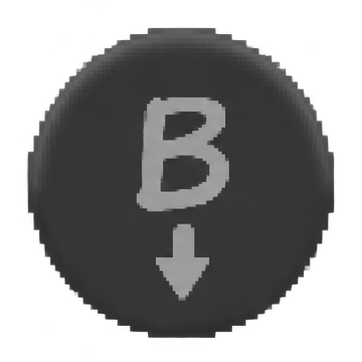
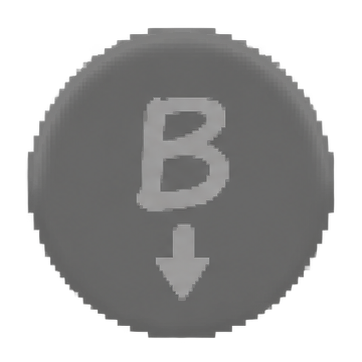
Isaac: the pad takes the player's opacity-baked art and final game geometry; the watcher gains the death page; the probe pins its deep roots
The pad's art is replaced with the player's opacity-adjusted set (the same
pictures, alpha only: the stick base at 35%, the dark discs at 75%, the
glyphs full, the paper keys redrawn at 724). The layers render at full
opacity -- set explicitly now -- so the baked alpha is never multiplied
again. The disc-centre anchors re-measured on the new files come out where
the old set's were (the minus disc at (0.5244, 0.5020) of its frame, 0.8008
of its span; the pause disc at (0.4986, 0.5069), 0.8453).

The game layout takes the player's final fitting: every frame at three
quarters of the first fitting (stick 0.16725, diamond keys 0.0728, the
bottom row 0.069), the diamond re-pitched to a true diamond (160 px both
axes: X 0.60902, B 0.86298 about the unchanged centre), the bottom row at
its final seats (ZL 0.565, L 0.650), and the - / + pair re-placed by disc
centre at the new scale (+ centre (0.938, 0.097) at frame 0.0503, - centre
(0.8838, 0.097) at frame 0.0530, the discs equal at ~116 px). The menus
are unchanged.

The watcher (hle_isaacpad.c) gains FD, the death flag the third probe
round found at Repentance data +0x85408 (zero everywhere until the death
instant, nonzero through the diary): F1 set and FD set now publish menu C
(3), the death page's layout that was already in the front end's table.
The pause page still publishes as the game; no field for it exists yet.

The probe's deep follow gains pinned roots (+0xcc0a8, the overlay / menu
[…]

diff --git a/dm/host/hle_isaacprobe.c b/dm/host/hle_isaacprobe.c
@@ -20,6 +20,12 @@
 // its target's first 512 bytes diffed the same way, tagged with the root slot's offset, capped at IP_DEEP_MAX
 // objects, with the same counter silencing per field. The tour this time only has to hold the pause page and die
 // once, steadily, inside one run.
+// Round 4 (that tour's analysis): the first-come table had filled with boot-time pointers (~2 s in) before any
+// of the objects that matter exist, so the menu tour's deep layer read almost nothing. Two roots are therefore
+// pinned -- followed always, outside the cap and the first-come scan (see the round-4 section below): +0xcc0a8,
+// the overlay / menu manager (built ~3.7 s in, in place across the menus and the whole run, swapped for the
+// diary's object when the death page opens), and +0xd2160, the session object behind F2. If a current-screen
+// enum exists anywhere, it lives in one of those two objects.
 #include "hle.h"
 #include <stdlib.h>
 #include <string.h>
@@ -226,6 +232,28 @@ static uint8_t *g_deep_seen;        // one bit per slot of the module's data seg
 static module_t *g_deep_mod;        // the module (and base) the table keys off; a change restarts the table
 static uint8_t *g_deep_lo;
 
+// ---- Round 4: the pinned roots (see the file's head) ----
+static const size_t k_ip_deep_pins[] = { 0xcc0a8, 0xd2160 };   // root slot offsets in Repentance's data segment
+typedef struct {
+    size_t slot;            // the root slot's offset (the log's root=)
+    uint64_t target;        // the object it points at now; 0 while it points at nothing followable
+    int heap;               // as ip_deep_t's heap
+    uint8_t snap[IP_DEEP_OBJ];
+    uint32_t streak[IP_DEEP_OBJ / 8];   // per 8-byte field, as ip_deep_t's streak
+} ip_pin_t;
+static ip_pin_t g_pins[sizeof k_ip_deep_pins / sizeof k_ip_deep_pins[0]];
+
+static int ip_is_pin(size_t slot) {
+    for (size_t i = 0; i < sizeof k_ip_deep_pins / sizeof k_ip_deep_pins[0]; i++) if (k_ip_deep_pins[i] == slot) return 1;
+    return 0;
+}
+
+static int ip_pins_active(void) {
+    int n = 0;
+    for (size_t i = 0; i < sizeof g_pins / sizeof g_pins[0]; i++) if (g_pins[i].target) n++;
+    return n;
+}
+
 static ip_range_t *ip_deep_range(void) {
     for (int i = 0; i < g_nranges; i++) if (!strcmp(g_ranges[i].m->build_id, k_isaacprobe_deep[0])) return &g_ranges[i];
     return NULL;
@@ -236,6 +264,7 @@ static void ip_deep_reset(void) {
     free(g_deep); g_deep = NULL; g_ndeep = 0; g_deep_full_noted = 0;
     free(g_deep_seen); g_deep_seen = NULL;
     g_deep_mod = NULL; g_deep_lo = NULL;
+    for (size_t i = 0; i < sizeof g_pins / sizeof g_pins[0]; i++) { memset(&g_pins[i], 0, sizeof g_pins[i]); g_pins[i].slot = k_ip_deep_pins[i]; }
 }
 
 // Read a followed deep object's bytes: 0 on success (the heap read refuses a vanished object).
@@ -258,6 +287,7 @@ static void ip_deep_scan_new(ip_range_t *r) {
     const uint64_t *cur = (const uint64_t *)(const void *)r->lo;
     for (size_t s = 0; s < r->nslots; s++) {
         if ((g_deep_seen[s / 8] >> (s % 8)) & 1) continue;
+        if (ip_is_pin(s * 8)) continue;   // the pinned roots are followed separately, always (ip_deep_pin_poll)
         int heap; if (!ip_classify(cur[s], &heap, IP_DEEP_OBJ)) continue;
         if (g_ndeep >= IP_DEEP_MAX) {
             if (!g_deep_full_noted) { g_deep_full_noted = 1; LOG("[isaacprobe] deep pointer table full (%d); no further pointers are followed", IP_DEEP_MAX); }
@@ -270,6 +300,29 @@ static void ip_deep_scan_new(ip_range_t *r) {
         g_deep_seen[s / 8] |= (uint8_t)(1u << (s % 8));
         g_ndeep++;
     }
+}
+
+// Diff one followed object's fresh bytes against its snapshot, logging each changed field (a field
+// that changes on every poll for 10 s is named a counter once, then left quiet). Returns the changes.
+static int ip_deep_diff(const char *modname, size_t slot, uint8_t *snap, uint32_t *streak, const uint8_t *buf, uint64_t t) {
+    int changed = 0;
+    for (size_t o = 0; o < IP_DEEP_OBJ; o += 8) {
+        uint64_t nv, ov;
+        memcpy(&nv, buf + o, 8); memcpy(&ov, snap + o, 8);
+        if (nv == ov) { if (streak[o / 8] != ~0u) streak[o / 8] = 0; continue; }
+        memcpy(snap + o, &nv, 8);
+        if (streak[o / 8] == ~0u) continue;   // a named counter stays quiet (and out of the heartbeat's count)
+        changed++;
+        if (++streak[o / 8] >= IP_HOT_POLLS) {
+            streak[o / 8] = ~0u;
+            LOG("[isaacprobe] t=%llu counter deep mod=%s root=0x%zx objoff=0x%zx (changed on every poll for 10 s; its changes are no longer logged)",
+                (unsigned long long)t, modname, slot, o);
+            continue;
+        }
+        LOG("[isaacprobe] t=%llu deep mod=%s root=0x%zx objoff=0x%zx old=0x%016llx new=0x%016llx",
+            (unsigned long long)t, modname, slot, o, (unsigned long long)ov, (unsigned long long)nv);
+    }
+    return changed;
 }
 
 // One poll over the followed deep objects: re-validate each, then log changes (counters named once, then quiet).
@@ -292,22 +345,43 @@ static int ip_deep_poll(ip_range_t *r, uint64_t t) {
             continue;
         }
         if (ip_deep_read(p, buf)) { ip_deep_drop(i--); continue; }   // died between the classify and the read
-        for (size_t o = 0; o < IP_DEEP_OBJ; o += 8) {
-            uint64_t nv, ov;
-            memcpy(&nv, buf + o, 8); memcpy(&ov, p->snap + o, 8);
-            if (nv == ov) { if (p->streak[o / 8] != ~0u) p->streak[o / 8] = 0; continue; }
-            memcpy(p->snap + o, &nv, 8);
-            if (p->streak[o / 8] == ~0u) continue;   // a named counter stays quiet (and out of the heartbeat's count)
-            changed++;
-            if (++p->streak[o / 8] >= IP_HOT_POLLS) {
-                p->streak[o / 8] = ~0u;
-                LOG("[isaacprobe] t=%llu counter deep mod=%s root=0x%zx objoff=0x%zx (changed on every poll for 10 s; its changes are no longer logged)",
-                    (unsigned long long)t, r->m->name, p->slot, o);
-                continue;
-            }
-            LOG("[isaacprobe] t=%llu deep mod=%s root=0x%zx objoff=0x%zx old=0x%016llx new=0x%016llx",
-                (unsigned long long)t, r->m->name, p->slot, o, (unsigned long long)ov, (unsigned long long)nv);
+        changed += ip_deep_diff(r->m->name, p->slot, p->snap, p->streak, buf, t);
+    }
+    return changed;
+}
+
+// Read a pinned root's object: 0 on success (the heap read refuses a vanished object).
+static int ip_pin_read(const ip_pin_t *p, uint8_t *out) {
+    if (p->heap) return dm_guest_heap_read(p->target, out, IP_DEEP_OBJ);
+    memcpy(out, (const void *)(uintptr_t)p->target, IP_DEEP_OBJ);   // a module's data: its mapping is process-lifetime
+    return 0;
+}
+
+// One poll over the pinned roots: re-resolve each root's target -- a swap adopts the new object,
+// restarts its diff and is logged with the usual deep tag; a root pointing at nothing followable
+// idles (never dropped) until it points again -- then diff the current objects.
+static int ip_deep_pin_poll(ip_range_t *r, uint64_t t) {
+    int changed = 0;
+    const uint64_t *cur = (const uint64_t *)(const void *)r->lo;
+    uint8_t buf[IP_DEEP_OBJ];
+    for (size_t i = 0; i < sizeof g_pins / sizeof g_pins[0]; i++) {
+        ip_pin_t *p = &g_pins[i];
+        if (p->slot + 8 > r->len) continue;
+        uint64_t v = cur[p->slot / 8];
+        int heap;
+        if (v != p->target) {
+            if (ip_classify(v, &heap, IP_DEEP_OBJ)) {
+                p->target = v; p->heap = heap;
+                if (ip_pin_read(p, buf)) { p->target = 0; continue; }   // died between the classify and the read: idle, a later poll retries
+                memcpy(p->snap, buf, IP_DEEP_OBJ); memset(p->streak, 0, sizeof p->streak);
+                LOG("[isaacprobe] t=%llu deep mod=%s root=0x%zx now points at 0x%016llx",
+                    (unsigned long long)t, r->m->name, p->slot, (unsigned long long)v);
+            } else p->target = 0;   // nothing followable there now: 0, or a pointer too near a range's end to hold an object
+            continue;
         }
+        if (!p->target) continue;
+        if (ip_pin_read(p, buf)) { p->target = 0; continue; }   // the object died under us: idle until the root points again
+        changed += ip_deep_diff(r->m->name, p->slot, p->snap, p->streak, buf, t);
     }
     return changed;
 }
@@ -332,13 +406,15 @@ static void *isaacprobe_main(void *arg) {
                 if (deep->nslots) g_deep_seen = calloc((deep->nslots + 7) / 8, 1);
                 LOG("[isaacprobe] deep-following the pointers in mod=%s's data segment (build %s): %d-byte objects, at most %d",
                     deep->m->name, deep->m->build_id, IP_DEEP_OBJ, IP_DEEP_MAX);
+                LOG("[isaacprobe] deep-pinned roots +0x%zx and +0x%zx: followed always, outside the table",
+                    k_ip_deep_pins[0], k_ip_deep_pins[1]);
             }
-            ip_deep_scan_new(deep); changed += ip_deep_poll(deep, t);
+            ip_deep_scan_new(deep); changed += ip_deep_poll(deep, t); changed += ip_deep_pin_poll(deep, t);
         }
         changed10 += changed;
         if (++poll % 40 == 0) {
             LOG("[isaacprobe] heartbeat t=%llu changed=%d slots in the last 10 s, %d pointers followed, %d ranges tracked, %d deep pointers followed",
-                (unsigned long long)t, changed10, g_nptrs, g_nranges, g_ndeep);
+                (unsigned long long)t, changed10, g_nptrs, g_nranges, g_ndeep + ip_pins_active());
             changed10 = 0;
         }
         struct timespec ts = { 0, 250000000 }; nanosleep(&ts, NULL);

diff --git a/dm/ios/Sources/DmGamepad.m b/dm/ios/Sources/DmGamepad.m
@@ -449,23 +449,25 @@ static UIView *clearDisc(UIView *parent, CGFloat tint) {
 // ---- Isaac layout (DM_PAD_ISAAC=1 in an env file) ----
 // The Binding of Isaac's own touch pad: image keys only (the game's official iOS art, redrawn by the
 // player; dm/padisaac, staged into the bundle by build_ipa.sh), no drawn fallback and no layout editor.
+// The art carries its own opacity (the player's set bakes it in -- the stick base at 35%, the dark
+// discs at 75%, the glyphs full), so the layers render at full opacity and nothing multiplies it again.
 // The host watches the game's page fields and publishes the layout (dm_isaac_pad_mode, hle_isaacpad.c):
-// 0 menu A (the title and save pages), 1 menu B (the main menu and the character page), 2 the game.
-// The menus get a D-pad cross at the left and the paper confirm / back keys at the right (menu B adds an
-// X key at the top right, for the daily run and the seed entry); the game gets a fixed stick at the left,
+// 0 menu A (the title and save pages), 1 menu B (the main menu and the character page), 2 the game,
+// 3 menu C (the death page: the diary). The pause page still publishes as the game -- no probe has
+// found a field for it. The menus get a D-pad cross at the left and the paper confirm / back keys at
+// the right (menu B adds an X key at the top right, for the daily run and the seed entry; menu C gets
+// the letter A / B discs instead of the paper keys, and no X); the game gets a fixed stick at the left,
 // the shooting diamond at the right, a two-key row at the bottom centre (ZL's tool inside, L's bomb
 // outside) and the - / + pair at the top right. There are no R / ZR keys (the game binds nothing the
-// player asked for to them here). A fourth layout is already drawn in the table -- menu C, the death
-// page (the diary: the cross and the letter A / B discs) -- but stays unreachable: no watcher state
-// maps to it yet, because the diary page reads exactly like the game in every field the probes have
-// covered (see isaacTick).
+// player asked for to them here). The game's keys sit at the player's final scale: three quarters of
+// the first fitting's frames, the diamond re-pitched to a true diamond (equal pixel pitch both axes).
 // Centres are fractions of the whole screen (x of its width, y of its height) and sizes the art frame's
 // width as a fraction of the screen's width (the frames are square), the layout the player measured.
 // The top-right pair is the one exception: those two arts carry different transparent margins, so each
 // is placed by its visible disc's centre -- (ax, ay) is the point of the frame, as a fraction, that
 // lands on the seat (x, y); every other key's anchor is its frame centre (0.5, 0.5).
 static BOOL padIsaac(void) { const char *e = getenv("DM_PAD_ISAAC"); return e && atoi(e); }
-enum { IA_MENU_A, IA_MENU_B, IA_GAME, IA_MENU_C };   // the layouts, dm_isaac_pad_mode's values (IA_MENU_C unreachable for now)
+enum { IA_MENU_A, IA_MENU_B, IA_GAME, IA_MENU_C };   // the layouts, dm_isaac_pad_mode's values
 #define IA_IN_A (1 << IA_MENU_A)
 #define IA_IN_B (1 << IA_MENU_B)
 #define IA_IN_G (1 << IA_GAME)
@@ -474,20 +476,20 @@ static const struct { const char *art; int bit; int modes; CGFloat x, y, w, ax, 
     {"select",   B_A,     IA_IN_A | IA_IN_B, 0.859, 0.639, 0.1375, 0.5,    0.5},     // the paper confirm key (the menus' A)
     {"back",     B_B,     IA_IN_A | IA_IN_B, 0.859, 0.861, 0.122,  0.5,    0.5},     // the paper back key (the menus' B)
     {"letter_x", B_X,     IA_IN_B,           0.938, 0.097, 0.097,  0.5,    0.5},     // menu B's sub-option key, at the top right
-    {"letter_a", B_A,     IA_IN_C,           0.859, 0.639, 0.110,  0.5,    0.5},     // the death page's restart key (menu C, unreachable yet)
-    {"letter_b", B_B,     IA_IN_C,           0.859, 0.861, 0.110,  0.5,    0.5},     // the death page's quit key (menu C, unreachable yet)
-    {"attack_x", B_X,     IA_IN_G,           0.867, 0.597, 0.097,  0.5,    0.5},     // the diamond: shoot up
-    {"attack_y", B_Y,     IA_IN_G,           0.789, 0.736, 0.097,  0.5,    0.5},     // shoot left
-    {"attack_a", B_A,     IA_IN_G,           0.945, 0.736, 0.097,  0.5,    0.5},     // shoot right
-    {"attack_b", B_B,     IA_IN_G,           0.867, 0.875, 0.097,  0.5,    0.5},     // shoot down
-    {"item_zl",  B_ZL,    IA_IN_G,           0.500, 0.885, 0.092,  0.5,    0.5},     // the bottom row: the active item (ZL) inside
-    {"bomb_l",   B_L,     IA_IN_G,           0.615, 0.885, 0.092,  0.5,    0.5},     // the bottom row: bombs (L) outside -- the pair swapped seats at the player's word, the old - seat left of them stays empty
-    {"minus",    B_MINUS, IA_IN_G,           0.869, 0.097, 0.0705, 0.5244, 0.5020},  // - (time and score): placed by its disc's centre (the disc sits right of its frame's centre), sized so its disc matches the + disc's
-    {"pause",    B_PLUS,  IA_IN_G,           0.938, 0.097, 0.067,  0.4986, 0.5069},  // + (pause), the pause art on the Plus key: placed by its disc's centre, like its pair
+    {"letter_a", B_A,     IA_IN_C,           0.859, 0.639, 0.110,  0.5,    0.5},     // the death page's restart key (menu C)
+    {"letter_b", B_B,     IA_IN_C,           0.859, 0.861, 0.110,  0.5,    0.5},     // the death page's quit key (menu C)
+    {"attack_x", B_X,     IA_IN_G,           0.867, 0.60902, 0.0728, 0.5,  0.5},     // the diamond: shoot up (a true diamond: the vertical pitch is the horizontal's 160 px, not the design sheet's height fraction)
+    {"attack_y", B_Y,     IA_IN_G,           0.8085, 0.736, 0.0728, 0.5,   0.5},     // shoot left
+    {"attack_a", B_A,     IA_IN_G,           0.9255, 0.736, 0.0728, 0.5,   0.5},     // shoot right
+    {"attack_b", B_B,     IA_IN_G,           0.867, 0.86298, 0.0728, 0.5,  0.5},     // shoot down
+    {"item_zl",  B_ZL,    IA_IN_G,           0.565, 0.885, 0.069,  0.5,    0.5},     // the bottom row: the active item (ZL) inside
+    {"bomb_l",   B_L,     IA_IN_G,           0.650, 0.885, 0.069,  0.5,    0.5},     // the bottom row: bombs (L) outside -- the pair swapped seats at the player's word, then moved right and closer together at his final fitting; the old - seat left of them stays empty
+    {"minus",    B_MINUS, IA_IN_G,           0.8838, 0.097, 0.0530, 0.5244, 0.5020},  // - (time and score): placed by its disc's centre (the disc sits right of its frame's centre), sized so its disc matches the + disc's
+    {"pause",    B_PLUS,  IA_IN_G,           0.938, 0.097, 0.0503, 0.4986, 0.5069},  // + (pause), the pause art on the Plus key: placed by its disc's centre, like its pair
 };
 #define ISAAC_N (int)(sizeof k_isaac / sizeof k_isaac[0])
 static const CGFloat IA_DPAD_X = 0.133, IA_DPAD_Y = 0.736, IA_DPAD_W = 0.203;   // the menus' D-pad cross (the stick's seat, at the old disc's frame, at the player's word)
-static const CGFloat IA_STICK_X = 0.133, IA_STICK_Y = 0.743, IA_STICK_W = 0.223, IA_THUMB_W = 0.103;   // the game's stick base and thumb (frame widths, as k_isaac's)
+static const CGFloat IA_STICK_X = 0.133, IA_STICK_Y = 0.743, IA_STICK_W = 0.16725, IA_THUMB_W = 0.07725;   // the game's stick base and thumb (frame widths, as k_isaac's; three quarters of the first fitting, like the keys)
 static UIImage *isaacImage(const char *name) {   // a padisaac image, loaded once and cached (nil when the file is absent)
     static NSMutableDictionary *cache;
     if (!cache) cache = [[NSMutableDictionary alloc] init];
@@ -501,7 +503,9 @@ static UIImage *isaacImage(const char *name) {   // a padisaac image, loaded onc
     return im;
 }
 static CALayer *isaacImgLayer(CALayer *parent, const char *name) {
-    CALayer *l = [CALayer layer]; l.contents = (id)isaacImage(name).CGImage; [parent addSublayer:l]; return l;
+    CALayer *l = [CALayer layer]; l.contents = (id)isaacImage(name).CGImage;
+    l.opacity = 1.0;   // the art bakes its own opacity in; the engine renders it at full strength and never multiplies it again (set explicitly: the default already is 1)
+    [parent addSublayer:l]; return l;
 }
 static CGPoint isaacCenter(int i, CGRect b) {   // key i's art frame centre, in points: the seat (x, y) is where the frame's anchor point (ax, ay) lands, so the frame centre sits off it by the anchor's offset (the top-right pair's discs are not at their frames' centres)
     CGFloat fw = k_isaac[i].w * b.size.width;
@@ -1003,9 +1007,8 @@ static CGFloat dist(CGPoint a, CGPoint b) { return hypot(a.x - b.x, a.y - b.y); 
     _isaacMode = m;
     [self reset];   // held touches end with the layout change: their keys may be hidden now
     [self applyIsaacMode];
-    // TODO: IA_MENU_C (the death page's layout: the cross and the letter A / B discs in k_isaac) has no
-    // watcher state yet -- the diary page reads exactly like the game in the flag and session fields.
-    // Map it here once the deep-follow probe (hle_isaacprobe.c) finds the diary's field.
+    // The watcher publishes all four layouts now: the diary's field turned up in the probe's third
+    // round (a death flag in Repentance's data segment; hle_isaacpad.c reads it as menu C).
 }
 - (CGFloat)buttonDistance:(int)b point:(CGPoint)p {
     CGFloat u = self.u;

diff --git a/dm/host/hle_isaacpad.c b/dm/host/hle_isaacpad.c
@@ -1,15 +1,20 @@
 // The Binding of Isaac's touch-pad layout watcher (DM_PAD_ISAAC=1): the game's own art pad
-// (DmGamepad.m, dm/padisaac) has three layouts -- the menu pages, and the game -- and switches
-// between them off two fields in Repentance.nro's data segment, found by the page-state probes
-// (hle_isaacprobe.c; the analysis is in the project's probe notes):
+// (DmGamepad.m, dm/padisaac) has four layouts -- the menu pages, the game and the death page --
+// and switches between them off three fields in Repentance.nro's data segment, found by the
+// page-state probes (hle_isaacprobe.c; the analysis is in the project's probe notes):
 //   F1, the flag word at data +0x88498, bit 0x100: clear on the menu side, set while a run
-//     exists (in game -- and, as far as anyone can measure, on the pause and death pages too).
+//     exists (in game -- and, as far as anyone can measure, on the pause page too).
 //     Only the bit is read: bit 0 pulses for a frame on transitions, so the word is never
 //     compared whole.
 //   F2, the three pointers at data +0xd2160 / +0xd2168 / +0xd2170, read as zero / nonzero:
 //     zero until a save file is confirmed on the file-select page, nonzero for the rest of the
 //     session. It is the only measured difference between the title / save pages (layout 0,
 //     menu A) and the main menu / character pages (layout 1, menu B, which add an X key).
+//   FD, the flag word at data +0x85408, read as zero / nonzero: zero everywhere until the run's
+//     death, nonzero from the death instant through the diary page (layout 3, menu C). It is a
+//     latch like F2 -- it stays set after the diary is left for the menus, where F1 clear routes
+//     the pad to a menu layout anyway; the one path its clearing was never observed on is diary
+//     -> restart -> a fresh run, which the on-device check of this build watches for.
 // The fields are gated on Repentance's build ID, like every fixed guest offset in this host:
 // another build never runs them, and anything unexpected -- the module missing, the segment
 // shorter than the fields -- leaves the published layout at its fallback, the game layout (2),
@@ -24,10 +29,10 @@
 #include <time.h>
 #include <stdatomic.h>
 
-// The builds the page fields are known in: (build ID, F1's offset, F2's first offset) in the module's data segment.
-typedef struct { const char *build_id; uint32_t flag, file; } ia_row_t;
+// The builds the page fields are known in: (build ID, F1's offset, F2's first offset, FD's offset) in the module's data segment.
+typedef struct { const char *build_id; uint32_t flag, file, death; } ia_row_t;
 static const ia_row_t k_isaacpad[] = {
-    { "8821c0a75afc814df5902fdc31e8d127", 0x88498, 0xd2160 },   // Repentance.nro, the build the page fields were found in
+    { "8821c0a75afc814df5902fdc31e8d127", 0x88498, 0xd2160, 0x85408 },   // Repentance.nro, the build the page fields were found in
 };
 
 static _Atomic int g_ia_mode = 2;   // the published layout (dm_isaac_pad_mode): the game layout until the watcher derives another
@@ -53,17 +58,18 @@ static void *isaacpad_main(void *arg) {
     for (;;) {
         const module_t *m = ia_module();
         const ia_row_t *row = m ? ia_row(m) : NULL;
-        if (row && m->size - m->data_off > row->file + 24) {
+        if (row && m->size - m->data_off > row->file + 24) {   // FD's offset sits below F2's, inside the same bound
             waited = 0;
             const uint8_t *data = m->base + m->data_off;
-            uint64_t flag, f2 = 0, p;
+            uint64_t flag, death, f2 = 0, p;
             memcpy(&flag, data + row->flag, 8);
+            memcpy(&death, data + row->death, 8);
             for (int k = 0; k < 3; k++) { memcpy(&p, data + row->file + 8 * (size_t)k, 8); f2 |= p; }
-            int mode = (flag & 0x100) ? 2 : f2 ? 1 : 0;   // 0 menu A (title / save), 1 menu B (main menu / character), 2 the game
+            int mode = (flag & 0x100) ? (death ? 3 : 2) : f2 ? 1 : 0;   // 0 menu A (title / save), 1 menu B (main menu / character), 2 the game, 3 menu C (the death page)
             if (mode == cand) { if (nread < 2) nread++; } else { cand = mode; nread = 1; }
             if (nread >= 2 && cand != atomic_load(&g_ia_mode)) {
                 atomic_store(&g_ia_mode, cand);
-                LOG("[isaacpad] layout %s", cand == 0 ? "menu A" : cand == 1 ? "menu B" : "game");
+                LOG("[isaacpad] layout %s", cand == 0 ? "menu A" : cand == 1 ? "menu B" : cand == 2 ? "game" : "menu C");
             }
         } else if (!noted && ++waited >= 600) {   // a minute at 10 Hz with no module to read: say so once, then keep waiting quietly
             noted = 1;

diff --git a/docs/agents/game-patches.md b/docs/agents/game-patches.md
@@ -730,8 +730,8 @@ Applied to the `sdk` of any build without CUTS, found by function fingerprint ([
 
 Dead code unless such a build is run; a candidate for removal, or for a build row in its profile.
 
-- `8821c0a7…`: [hle_isaacpad.c:30](../../dm/host/hle_isaacpad.c#L30): k_isaacpad (a build no profile registers)
-- `8821c0a7…`: [hle_isaacprobe.c:214](../../dm/host/hle_isaacprobe.c#L214): k_isaacprobe_deep (a build no profile registers)
+- `8821c0a7…`: [hle_isaacpad.c:35](../../dm/host/hle_isaacpad.c#L35): k_isaacpad (a build no profile registers)
+- `8821c0a7…`: [hle_isaacprobe.c:220](../../dm/host/hle_isaacprobe.c#L220): k_isaacprobe_deep (a build no profile registers)
 
 ## Translator rules keyed by a shader's code
 
